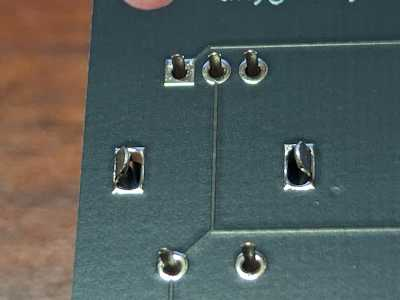
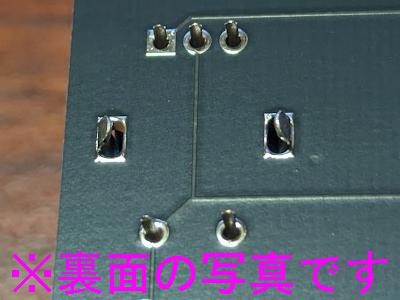
パーツ対応を記載、作業面の記載を追加、足カットについて追記

diff --git a/buildguide.md b/buildguide.md
@@ -5,14 +5,14 @@
 | No | 品名                            | 個数 | 備考 |
 |----|---------------------------------|------|------|
 | 1  | 基板                            | 1    |
-| 2  | GROVE コネクタ                  | 1    |
+| 2  | Grove コネクタ                  | 1    |
 | 3  | ダイオード                      | 12   |
 | 4  | ジョイスティック                | 1    |
 | 5  | ピンソケット (1x8)              | 1    |
 | 6  | ピンソケット (1x7)              | 1    |
 | 7  | OLED 液晶                       | 1    |
 | 8  | プルアップ抵抗                  | 1    |
-| 9  | I型ピンソケット 2x6             | 2    |
+| 9  | L型ピンソケット 2x6             | 2    |
 | 10 | キースイッチ                    | 12   |
 | 11 | キーキャップ                    | 12   |
 | 12 | ソケット                        | 1    |
@@ -27,6 +27,168 @@
 | 21 | ロータリーエンコーダーノブ (大) | 1    |
 | 22 | ジョイスティックノブ            | 1    |
 
+## パーツ説明
+
+### 基板
+
+写真左側が表面 (最終的に上側となる) で、右側が裏面 (下側) です。  
+
+![](./images/parts01.jpg)
+
+
+### Grove コネクタ
+
+2mm ピッチ 4 ピンのコネクタです。  
+ピン配置は 1 ピンから SCL / SDA / 3.3V / GND です。  
+I2C 信号である SCL / SDA は OLED と共有になっていることに注意が必要です。  
+
+![](./images/parts02.jpg)
+
+Grove 接続可能な拡張ボードは多数販売されています。  
+zero-kb02 で使えるのは 3.3V I2C で使えるものに限定されます。  
+
+* https://www.switch-science.com/search?type=article%2Cpage%2Cproduct&q=Grove*
+    * https://www.switch-science.com/search?type=article%2Cpage%2Cproduct&q=Grove*+I2C* ← I2C で絞り込み
+
+### ダイオード
+
+向きがあるので注意です。  
+逆につなぐと動作しないので注意してください。  
+
+![](./images/parts03.jpg)
+
+以下のようなリードベンダーを用いて曲げるときれいに曲げることができます。  
+
+![](./images/bg06.jpg)
+
+
+### ジョイスティック
+
+アナログ操作を可能にするためのジョイスティックです。  
+傾き及び押し込みを検知できます。  
+アルプスアルパイン製でシリーズ全体で世界の据え置きゲーム端末機の 8 割以上のシェア、だそうです。  
+
+![](./images/parts04.jpg)
+
+### ピンソケット (1x8)
+
+マイコンを抜き差しできるようにするためにソケットを用意しています。
+
+![](./images/parts05.jpg)
+
+### ピンソケット (1x7)
+
+マイコンを抜き差しできるようにするためにソケットを用意しています。
+
+![](./images/parts06.jpg)
+
+### OLED 液晶
+
+I2C 接続の OLED (単色) です。  
+いわゆるディスプレイです。  
+128x64 ピクセルでコントローラーは SSD1306 です。  
+
+![](./images/parts07.jpg)
+
+### プルアップ抵抗
+
+I2C 用の 2.2kΩ抵抗です。  
+
+![](./images/parts08.jpg)
+
+### L型ピンソケット 2x6
+
+OLED の下側に配置する L型のピンソケットです。  
+上下 2 列の構成です。  
+
+![](./images/parts09.jpg)
+
+### キースイッチ
+
+押下すると裏面の端子 2 つが接続状態となります。  
+多くの製品があります。  
+
+![](./images/parts10.jpg)
+
+### キーキャップ
+
+キースイッチにかぶせて使います。  
+素材や形状、色など、多くの製品があります。  
+
+![](./images/parts11.jpg)
+
+### ソケット
+
+キースイッチをはんだ付けせずに抜き差しできるようにするためのソケットです。  
+
+![](./images/parts12.jpg)
+
+### RP2040 Zero
+
+RP2040 というマイコンが搭載されたマイコンボードです。  
+
+![](./images/parts13.jpg)
+
+### ロータリーエンコーダー
+
+回転および押し込みを検知することができます。  
+ボリュームやマウスのホイール等に使用されています。  
+
+![](./images/parts14.jpg)
+
+### SK6812MINI-E
+
+フルカラーの LED です。  
+基板にはんだ付け済みです。  
+
+![](./images/parts15.jpg)
+
+### コム足
+
+ケース底面に貼り付けて滑り止めとして使います。  
+
+### USB ケーブル (A to C)
+
+パソコンとの通信用です。  
+環境によっては C to C の場合もあります。  
+
+### さらねじ 2.1x10
+
+ケースおよび作業台で兼用です。  
+
+### ケース
+
+ケースです。  
+
+### ロータリーエンコーダーノブ
+
+ロータリーエンコーダー用のつまみです。  
+
+![](./images/parts20.jpg)
+
+### ロータリーエンコーダーノブ (大)
+
+ロータリーエンコーダー用のつまみです。  
+指で回し続けるような用途はこちらを使うとよい。  
+
+![](./images/parts21.jpg)
+
+### ジョイスティックノブ
+
+ジョイスティック用のノブです。  
+
+![](./images/parts22.jpg)
+
+
+# はんだ付け／組み立て
+
+以降、はんだ付けおよび組み立てについて記載します。  
+各項目はそれぞれ表面から作業するものと、裏面から作業するものがあります。  
+作業開始時点の向きを以下のバッジで記載しているので参考にしてください。  
+
+* ![作業面 - 表](https://img.shields.io/badge/作業面-表-2ea44f)
+* ![作業面 - 裏](https://img.shields.io/badge/作業面-裏-a42e4f)
+
 
 ## 作業台の組み立て
 
@@ -38,20 +200,21 @@
 以降の作業はできるだけ作業台の上で実施してください。  
 
 
-## マイコンのピン
+## ![作業面 - 表](https://img.shields.io/badge/作業面-表-2ea44f) マイコンのピン
 
 ボードにピンソケット (1x8 x 2 + 1x7 x 1) を置く。  
 
 ![](./images/bg02.jpg)
 
 RP2040 Zero 付属のピンヘッダーを刺してください。  
+写真のようにピンが長いほうが下側となり、長いほうをソケットに差し込みます。  
 これにより、垂直を出すことができます。  
 
 ![](./images/bg03.jpg)
 
 RP2040 Zero を置いてどれか 1 ピンだけはんだ付けする。  
 はんだ付けできたら位置／向きを確認し、必要があればはんだを溶かして整える。  
-しっかり遠くまで刺さっていることを確認すること。  
+しっかり深く刺さっていることを確認すること。  
 
 ![](./images/bg04.jpg)
 
@@ -60,12 +223,12 @@ RP2040 Zero を置いてどれか 1 ピンだけはんだ付けする。
 ![](./images/bg05.jpg)
 
 
-## RGB LED (SK6812MINI-E)
+## ![作業面 - 裏](https://img.shields.io/badge/作業面-裏-a42e4f) RGB LED (SK6812MINI-E)
 
 (実装済みのため省略)  
 
 
-## ダイオード x 12
+## ![作業面 - 裏](https://img.shields.io/badge/作業面-裏-a42e4f) ダイオード x 12
 
 `ダイオード折り曲げ` に沿わせてピンを曲げる。  
 
@@ -85,8 +248,12 @@ RP2040 Zero を置いてどれか 1 ピンだけはんだ付けする。
 
 ![](./images/bg10.jpg)
 
+すべてのはんだ付けが終わったら裏返してニッパー等で足をカットしてください。  
 
-## スイッチソケット
+![](./images/bg31.jpg)
+
+
+## ![作業面 - 裏](https://img.shields.io/badge/作業面-裏-a42e4f) スイッチソケット
 
 シルクに合わせてソケットを置く。  
 
@@ -106,7 +273,7 @@ RP2040 Zero を置いてどれか 1 ピンだけはんだ付けする。
 ![](./images/bg14.jpg)
 
 
-## ジョイスティック
+## ![作業面 - 表](https://img.shields.io/badge/作業面-表-2ea44f) ジョイスティック
 
 ここから表面での作業になります。  
 
@@ -125,7 +292,7 @@ RP2040 Zero を置いてどれか 1 ピンだけはんだ付けする。
 ![](./images/bg17.jpg)
 
 
-## Grove コネクター
+## ![作業面 - 表](https://img.shields.io/badge/作業面-表-2ea44f) Grove コネクター
 
 矢印のピンだけはんだ付けする。  
 はんだ付けできたら位置／向きを確認し、必要があればはんだを溶かして整える。  
@@ -141,7 +308,7 @@ RP2040 Zero を置いてどれか 1 ピンだけはんだ付けする。
 残りのピンをはんだ付けする。  
 
 
-## L 字 2x6 ピンソケット
+## ![作業面 - 表](https://img.shields.io/badge/作業面-表-2ea44f) L型ピンソケット 2x6
 
 Grove コネクターと同じで 1 ピンだけはんだ付けする。  
 はんだ付けできたら位置／向きを確認し、必要があればはんだを溶かして整える。  
@@ -156,7 +323,7 @@ Grove コネクターと同じで 1 ピンだけはんだ付けする。
 残りのピンを裏側からはんだ付けする。  
 
 
-## 抵抗 x 2
+## ![作業面 - 表](https://img.shields.io/badge/作業面-表-2ea44f) 抵抗 x 2
 
 ダイオードと同じように (ただし、向きはどちらでもよい) 片側をはんだ付けする。  
 位置が大きくずれたら再度熱してはんだを溶かし、位置を整える。  
@@ -164,11 +331,13 @@ Grove コネクターと同じで 1 ピンだけはんだ付けする。
 ![](./images/bg22.jpg)
 
 両側はんだ付けできたら完成。  
+すべてのはんだ付けが終わったら裏返してニッパー等で足をカットしてください。  
 
 
-## ロータリーエンコーダー
+## ![作業面 - 表](https://img.shields.io/badge/作業面-表-2ea44f) ロータリーエンコーダー
 
-まずは基板に差し込んでください。  
+裏表どちらからでも刺さるため、向きに注意してください。  
+表面から基板に差し込んでください。  
 その際、作業台から外して差し込んだ方が簡単です。  
 差し込む向きに注意 (ジョイスティックと同じ側に回転部がくる) してください。  
 裏から見て、ちゃんと刺さっていることを確認すること。  
@@ -188,7 +357,7 @@ Grove コネクターと同じで 1 ピンだけはんだ付けする。
 残りのピンをはんだ付けする。  
 
 
-## マイコンのソケット
+## ![作業面 - 表](https://img.shields.io/badge/作業面-表-2ea44f) マイコンのソケット
 
 
 ソケット (1x8 x 2 + 1x7 x 1) を刺して、マイコンも置く (これにより垂直を出す)。  
@@ -205,7 +374,7 @@ Grove コネクターと同じで 1 ピンだけはんだ付けする。
 残りのピンをはんだ付けする。  
 
 
-## 液晶
+## ![作業面 - 表](https://img.shields.io/badge/作業面-表-2ea44f) 液晶
 
 基板に液晶を軽く差し込む (奥まで刺さず、ほんの少しだけ差し込む)。  
 
@@ -259,7 +428,7 @@ Grove コネクターと同じで 1 ピンだけはんだ付けする。
 ねじを回すのにほとんど力が必要ない、というぐらいがちょうどよい。  
 基板とケースの間に隙間が空く場合、ねじの締めこみで解決するのではなく、手で調整してください。  
 
-# 踏査確認
+# 動作確認
 
 以下のファームウェア (`*.uf2`) を書き込んで確認する。  
 ロータリーエンコーダーを回してみて RGB LED が光ること、音量が変わることが確認できれば良い。  
